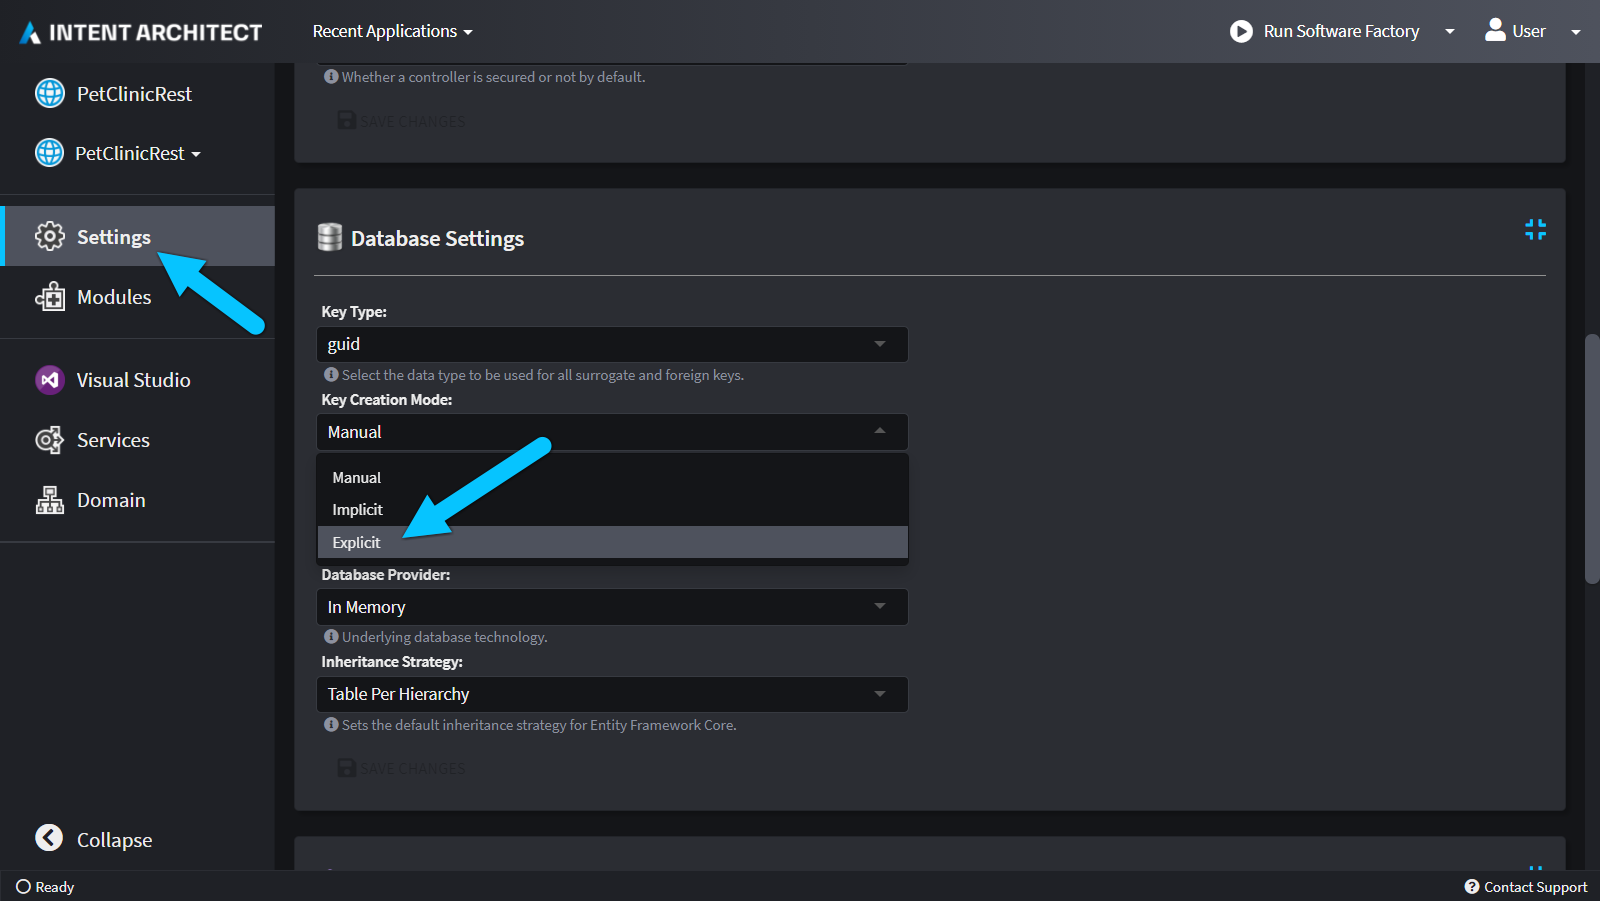
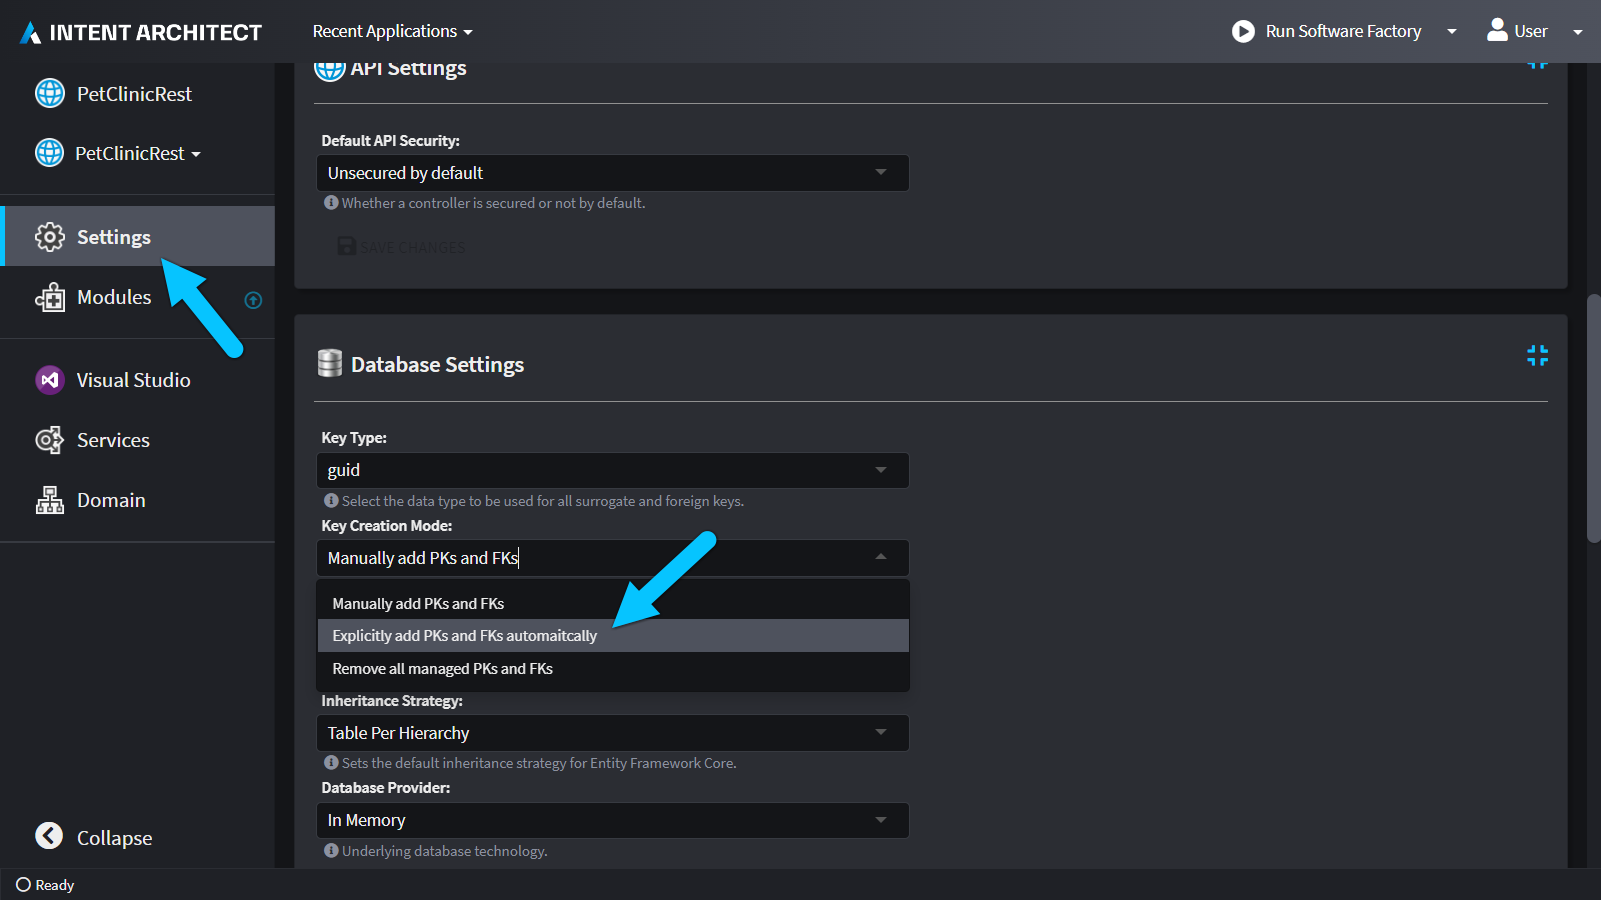
Updated the tutorial to match what the current explicit keys behaviour is doing.
AB#1041

diff --git a/articles/getting-started/tutorials/create-a-sample-app/02-create-a-petclinic-csharp/create-a-petclinic-csharp.md b/articles/getting-started/tutorials/create-a-sample-app/02-create-a-petclinic-csharp/create-a-petclinic-csharp.md
@@ -105,13 +105,26 @@ Also set up a `PetType` entity in a similar way:
 
 ## Configure Explicit Key Creation
 
-In our Domain Entity designing we have not defined any Database Primary Keys. This is due to the fact that Intent Architect by default assumes that each Entity will have an `Id` of type `Guid`. This can however be overridden in the Module Settings.
+In our Domain Entity designing we have not defined any Database Primary Keys. This is due to the fact that Intent Architect by default assumes that each Entity will have an `Id` of type `Guid`. We will override this in Module Settings.
 
-Click on the `Settings` tab on the left hand side. Locate the `Database Settings` section. Select `Explicit` from the `Key Creation Mode` dropdown.
+Click on the `Settings` tab on the left hand side. Locate the `Database Settings` section. Select `Explicitly add PKs and FKs automatically` from the `Key Creation Mode` dropdown.
+
+> [!NOTE]
+> In the Database Settings section, notice that Key Type is `guid`. It is important for what follows.
 
 ![Module Settings Explicit Key Creation](images/module-settings-explicit-key-creation.png)
 
-Navigate back to the Domain designer. You will be presented with `Id` fields with yellow key icons next to them (which indicate they're Primary Keys) as well as foreign keys (if applicable) with silver key icons next to them.
+Navigate back to the Domain designer.
+
+On the `Owner` entity do the following:
+
+- Add Attribute `Id` and set its Type to `guid` (this is the setting we referred to in the Database Settings).
+- Right click on `Id` and select `Apply Stereotype`.
+- Select `Primary Key` when the dialog appears.
+
+`Owner` will now have a Primary Key (as denoted by the yellow key icon) explicitly defined which caused a Foreign Key to be created on `Pet` called `OwnerId` that is of type `guid?` (with a silver key icon next to it).
+
+Perform the same steps on `Visit`, `Pet` and `PetType` and feel free to re-order the `Id` attributes so that they are positioned at the top (by performing the drag-and-drop mouse gesture) so that you get the following:
 
 ![Pet Clinic Diagram with explicit keys](images/pet-clinic-domain-diagram-explicit-keys.png)
 
